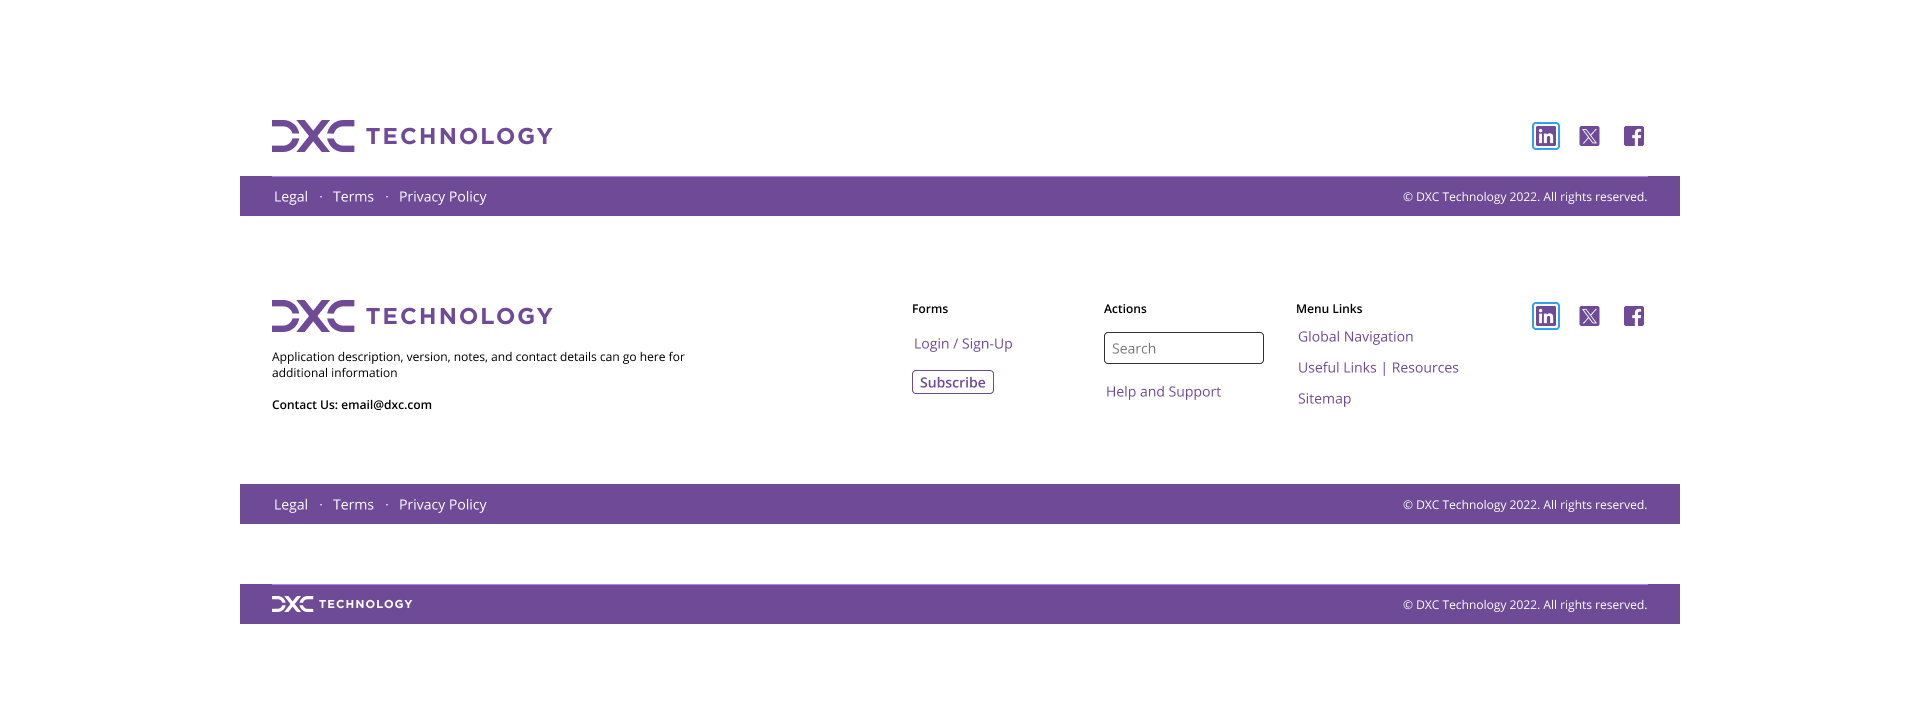
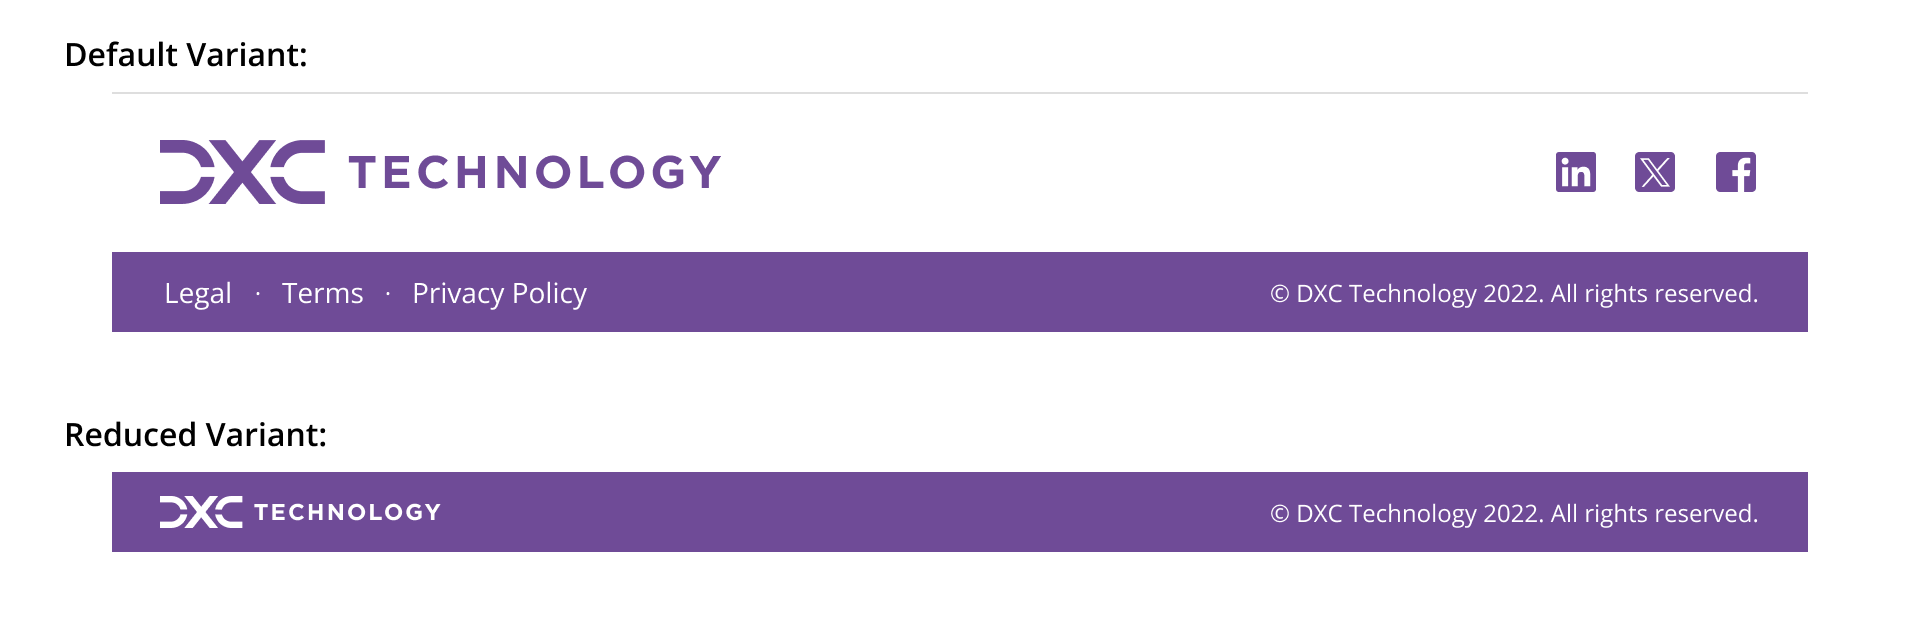
Enhance footer overview with additional content and update variant terminology

diff --git a/apps/website/screens/components/footer/overview/FooterOverviewPage.tsx b/apps/website/screens/components/footer/overview/FooterOverviewPage.tsx
@@ -32,6 +32,10 @@ const sections = [
             reinforce company recognition across all pages.
           </DxcBulletedList.Item>
           <DxcBulletedList.Item>
+            <strong>Border:</strong> Marks the upper boundary of the header to visually separate it from the main
+            content.
+          </DxcBulletedList.Item>
+          <DxcBulletedList.Item>
             <strong>Social icons:</strong> A set of clickable icons linking to the company's social media platforms
             (e.g., LinkedIn, Facebook). Placed on the right side for easy visibility and access.
           </DxcBulletedList.Item>
@@ -43,6 +47,12 @@ const sections = [
             <strong>Company links:</strong> A horizontal list of navigational hyperlinks such as Privacy Policy, Terms &
             Conditions, etc. Offers users access to important legal or informational resources.
           </DxcBulletedList.Item>
+          <DxcBulletedList.Item>
+            <strong>Left slot:</strong> Commonly used for short informational paragraphs or contact details.
+          </DxcBulletedList.Item>
+          <DxcBulletedList.Item>
+            <strong>Right slot:</strong> Commonly used for additional links, buttons, forms, or call to action.
+          </DxcBulletedList.Item>
         </DxcBulletedList>
       </>
     ),
@@ -53,15 +63,21 @@ const sections = [
       <>
         <DxcParagraph>
           To maintain consistency in layout flexibility and brand presentation, the footer offers two primary variants:{" "}
-          <strong>Default</strong> and <strong>Small</strong>.
+          <strong>Default</strong> and <strong>Reduced</strong>.
         </DxcParagraph>
         <DxcBulletedList>
           <DxcBulletedList.Item>
             <strong>Default:</strong> provides a balanced layout with branding and essential legal links. It offers a
             clean, uncluttered appearance suitable for most standard applications.
+            <DxcBulletedList>
+              <DxcBulletedList.Item>
+                Users can add content to the Default view using custom code such as content sections, text, links, and
+                other components for increased customization based on their specific needs.
+              </DxcBulletedList.Item>
+            </DxcBulletedList>
           </DxcBulletedList.Item>
           <DxcBulletedList.Item>
-            <strong>Small:</strong> offers a compact version of the footer, typically limited to branding and minimal
+            <strong>Reduced:</strong> offers a compact version of the footer, typically limited to branding and minimal
             legal text. It's best suited for lightweight experiences, login pages, or environments with constrained
             vertical space.
           </DxcBulletedList.Item>
